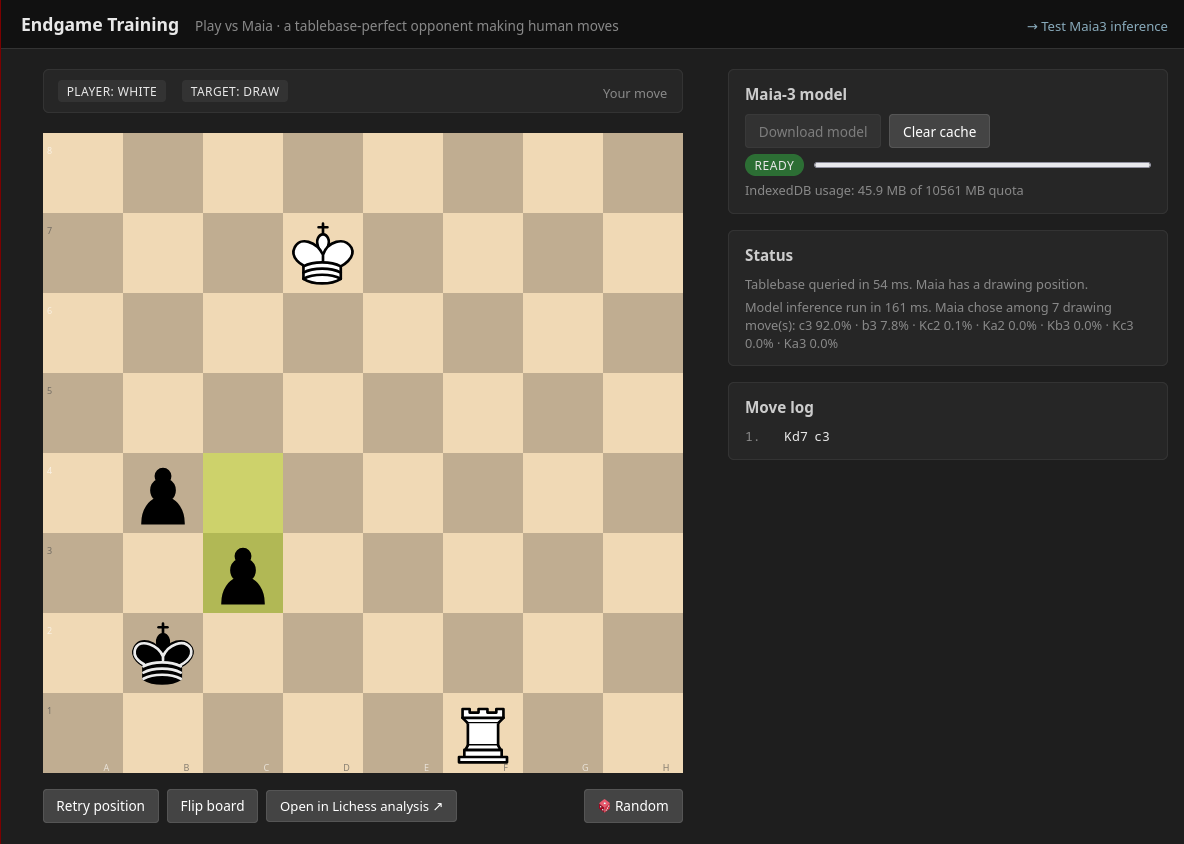
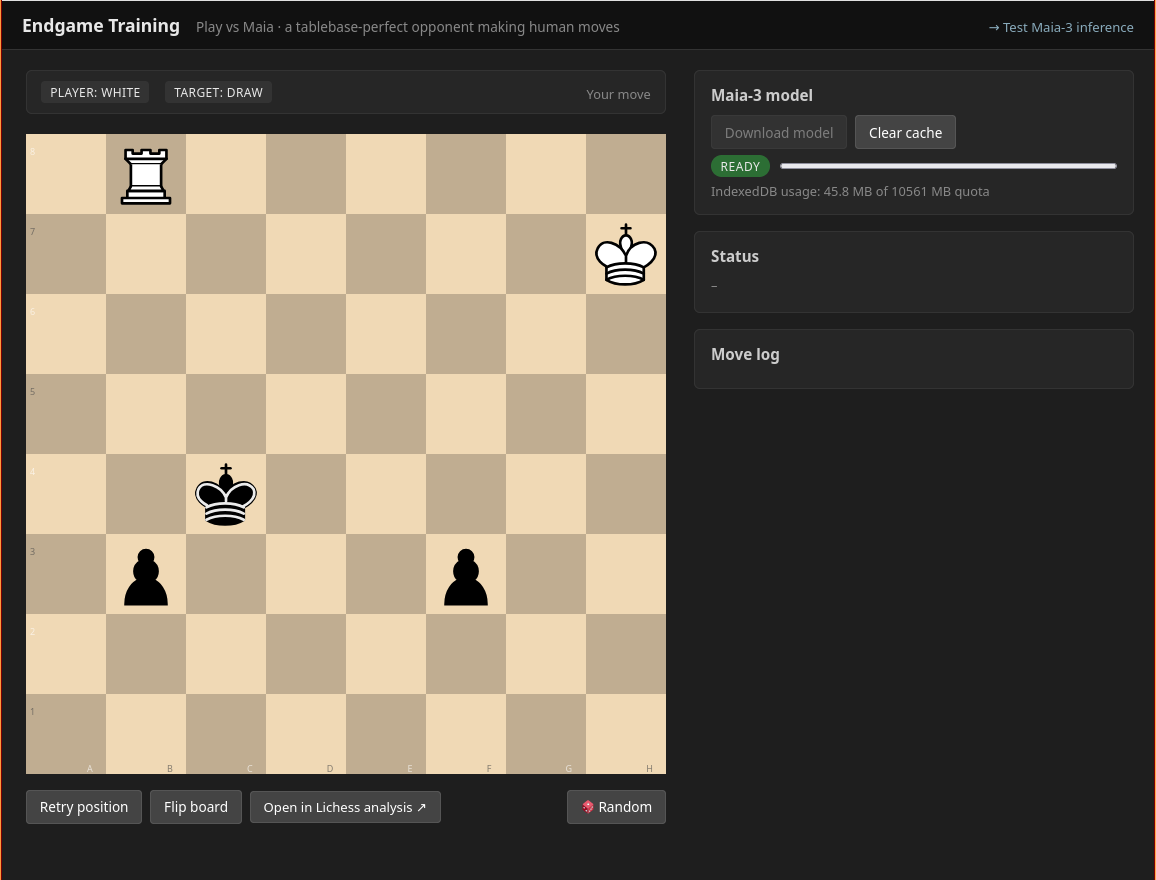
Change target -> objective

diff --git a/endgame_training.js b/endgame_training.js
@@ -1,7 +1,7 @@
 // Endgame Training — play vs Maia with a tablebase-perfect opponent.
 //
 // URL params:
-//   ?player=white|black&startFen=FEN&target=checkmate|draw
+//   ?player=white|black&startFen=FEN&objective=checkmate|draw
 //
 // Game loop:
 //   1. user moves
@@ -22,7 +22,7 @@ const MAIA_ELO = 2000;
 const STARTPOS = 'rnbqkbnr/pppppppp/8/8/8/8/PPPPPPPP/RNBQKBNR w KQkq - 0 1';
 
 // ── State ────────────────────────────────────────────────────────────────────
-let playerColor, startFen, target;
+let playerColor, startFen, objective;
 let chess = new Chess();
 let ground = null;
 let gameOver = false;
@@ -39,12 +39,12 @@ function parseParams() {
   const params = new URLSearchParams(location.search);
   playerColor = (params.get('player') || 'white').toLowerCase() === 'black' ? 'black' : 'white';
   startFen    = (params.get('startFen') || '').trim();
-  target      = (params.get('target') || 'draw').toLowerCase() === 'draw' ? 'draw' : 'checkmate';
+  objective   = (params.get('objective') || 'draw').toLowerCase() === 'draw' ? 'draw' : 'checkmate';
 }
 
 function updateTags() {
   $('tag-player').textContent = `Player: ${playerColor}`;
-  $('tag-target').textContent = `Target: ${target}`;
+  $('tag-objective').textContent = `Objective: ${objective}`;
 }
 
 function legalDests(c) {
@@ -98,7 +98,7 @@ function updateLichessLink() {
   $('lichess-analysis').href = `https://lichess.org/analysis/pgn/${encodedPgn}`;
 }
 
-// ── Material-based trivial-endgame detection (for target=checkmate user-success) ─
+// ── Material-based trivial-endgame detection (for objective=checkmate user-success) ─
 function pieceCounts(fen) {
   const pos = fen.split(' ')[0];
   const c = { P:0,N:0,B:0,R:0,Q:0,K:0, p:0,n:0,b:0,r:0,q:0,k:0 };
@@ -123,7 +123,7 @@ function isTrivialEndgameFor(userIsWhiteSide, fen) {
 function checkUserWin() {
   const fen = chess.fen();
   const halfMove = parseInt(fen.split(' ')[4] || '0');
-  if (target === 'checkmate') {
+  if (objective === 'checkmate') {
     if (chess.isCheckmate()) {
       // It's whoever-just-moved who delivered mate. If the person now to move
       // is NOT the user, then the user just delivered mate.
@@ -136,12 +136,12 @@ function checkUserWin() {
     if (userTurn() && isTrivialEndgameFor(userIsWhite(), fen)) {
       return { outcome: 'success', reason: 'Converted to a winning endgame.' };
     }
-    // Local draw checks are failures for the checkmate target
+    // Local draw checks are failures for the checkmate objective
     if (chess.isStalemate())           return { outcome: 'fail', reason: 'Stalemate.' };
     if (chess.isInsufficientMaterial())return { outcome: 'fail', reason: 'Insufficient material.' };
     if (chess.isThreefoldRepetition()) return { outcome: 'fail', reason: 'Threefold repetition.' };
     if (halfMove >= 100)               return { outcome: 'fail', reason: '50 moves.' };
-  } else { // target === 'draw'
+  } else { // objective === 'draw'
     if (chess.isCheckmate()) {
       if (!userTurn()) return { outcome: 'fail', reason: 'You delivered checkmate — not a draw.' };
       return { outcome: 'fail', reason: 'You were checkmated.' };
@@ -250,17 +250,17 @@ async function pickRandomEndgame(updateUrl = true) {
     const lines = text.trim().split('\n').slice(1); // skip header
     if (lines.length === 0) return;
     const randomLine = lines[Math.floor(Math.random() * lines.length)];
-    const [fen, tgt] = randomLine.split(',');
+    const [fen, obj] = randomLine.split(',');
 
     const fenParts = fen.split(' ');
     playerColor = fenParts[1] === 'w' ? 'white' : 'black';
     startFen = fen;
-    target = (tgt || 'draw').trim().toLowerCase();
+    objective = (obj || 'draw').trim().toLowerCase();
 
     if (updateUrl) {
       const url = new URL(window.location);
       url.searchParams.set('startFen', startFen);
-      url.searchParams.set('target', target);
+      url.searchParams.set('objective', objective);
       url.searchParams.set('player', playerColor);
       window.history.pushState({}, '', url);
     }
@@ -352,11 +352,11 @@ async function doOpponentMove() {
 
       // Fail check from Q.category (opponent POV). User's POV is inverted:
       //   opp=win  → user is losing     → fail always
-      //   opp=draw → user is drawing    → fail only if target=checkmate
+      //   opp=draw → user is drawing    → fail only if objective=checkmate
       //   opp=loss → user is winning    → no fail
       let userFail = null;
       if (oppOutcome === 'win')  userFail = 'You are in a losing position.';
-      else if (oppOutcome === 'draw' && target === 'checkmate') userFail = 'Opponent can force a draw.';
+      else if (oppOutcome === 'draw' && objective === 'checkmate') userFail = 'Opponent can force a draw.';
       if (userFail) showResult('fail', userFail);
       else hideResult();
     } else {
@@ -369,7 +369,7 @@ async function doOpponentMove() {
     if (!oppMoveUci) { endGame('warn', 'Opponent has no legal moves — unusual position.'); return; }
     applyOpponentMove(oppMoveUci);
 
-    // After opponent moves, check local user conditions that can fire on opp turn (e.g. opp stalemates user-target-draw)
+    // After opponent moves, check local user conditions that can fire on opp turn (e.g. opp stalemates user-objective-draw)
     const post = checkUserWin();
     if (post) { endGame(post.outcome, post.reason); return; }
   } catch (err) {

diff --git a/endgame_training.html b/endgame_training.html
@@ -32,7 +32,7 @@
     <section class="board-pane">
       <div class="game-banner">
         <span class="tag" id="tag-player">Player: –</span>
-        <span class="tag" id="tag-target">Target: –</span>
+        <span class="tag" id="tag-objective">Objective: –</span>
         <span style="flex:1"></span>
         <span id="turn-indicator" class="muted">–</span>
       </div>

diff --git a/README.md b/README.md
@@ -12,7 +12,7 @@ By visiting `endgame_training.html` (see it live [here](https://gr-g.github.io/m
 
 Going to `endgame_training.html` without any parameters will present a random endgame scenario, but in general you can play any endgame position of your choice by passing arguments for the starting position, the color you are playing, and the objective you want to achieve (checkmate or draw), like this:
 
-[https://gr-g.github.io/maia-local/endgame_training.html?player=white&startFen=8/k1P5/8/K7/8/8/8/8 w - - 0 1&target=checkmate](https://gr-g.github.io/maia-local/endgame_training.html?player=white&startFen=8/k1P5/8/K7/8/8/8/8%20w%20-%20-%200%201&target=checkmate)
+[https://gr-g.github.io/maia-local/endgame_training.html?player=white&startFen=8/k1P5/8/K7/8/8/8/8 w - - 0 1&objective=checkmate](https://gr-g.github.io/maia-local/endgame_training.html?player=white&startFen=8/k1P5/8/K7/8/8/8/8%20w%20-%20-%200%201&objective=checkmate)
 
 Training endgames against Maia has multiple advantages. First, it allows playing against a non-deterministic opponent (meaning that the opponent does not always play the same move in the same position) testing your ability to navigate different scenarios arising from the same starting position. Moreover, in both drawing and losing positions, the opponent will play moves that still resemble what a human would play to fight back. This is in contrast with what happens when playing endgames against strong engines, where the engine sometimes plays unintuitive or inexplicable moves to keep the draw (when the position is drawing), or plays just to delay mate (when losing) even if this removes any challenge - the typical example is when the engine runs away with the king knowing that it cannot stop a pawn from eventually promoting, even if this makes the exercise pointless.
 
